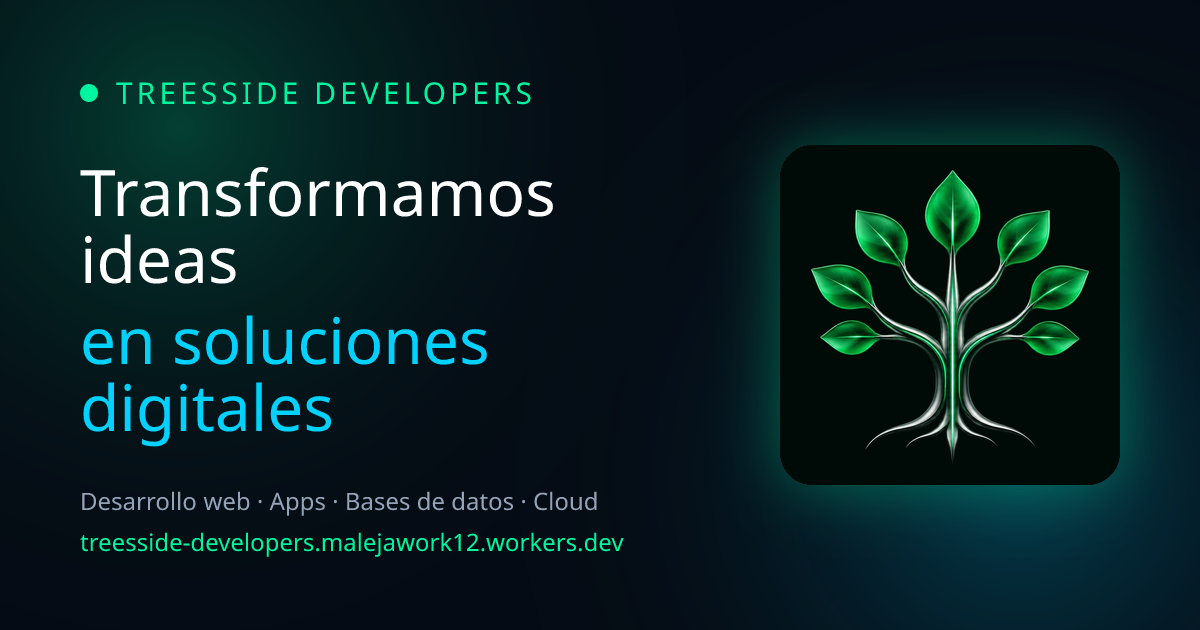
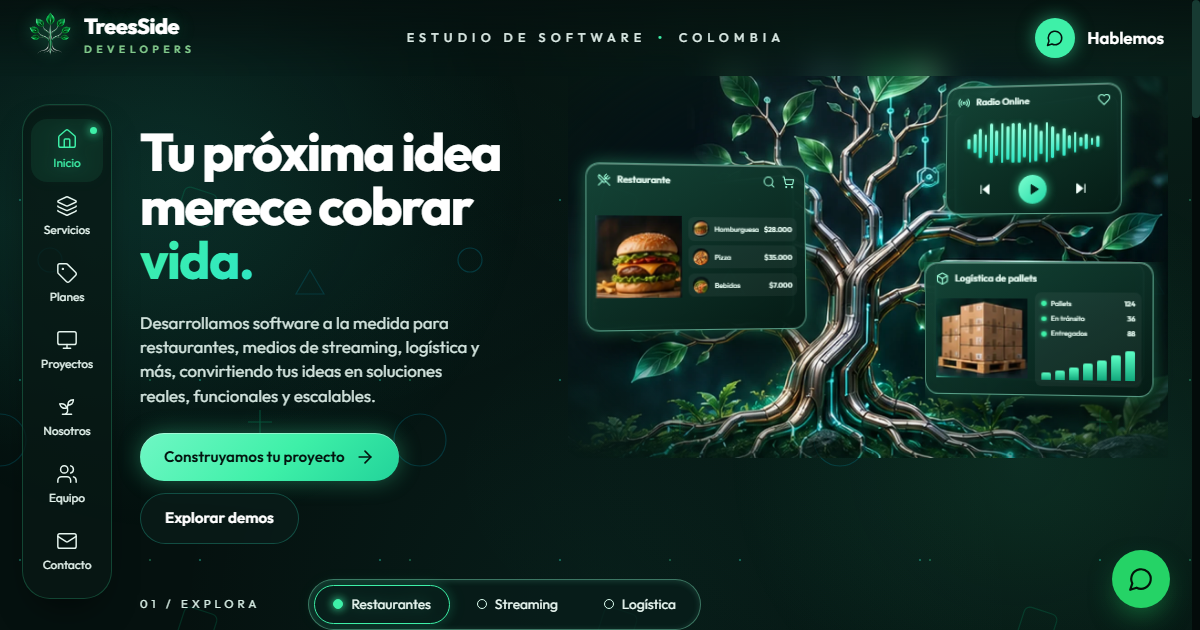
feat(site): refresh share preview, home order and team profiles

diff --git a/src/components/TeamGallery.tsx b/src/components/TeamGallery.tsx
@@ -69,7 +69,7 @@ export function TeamGallery() {
         <div className={styles.stage} data-team-stage="" data-focused={selected !== null}>
         <Image src="/images/mockup/team-tree.webp" alt="" aria-hidden="true" data-team-tree="" width={908} height={780} priority className={styles.tree} />
         <div className={styles.heading}>
-          <h1 id="team-title">Cuatro mentes.<br />Un mismo<br /><span className="text-gradient">propósito.</span></h1>
+          <h1 id="team-title">Distintas mentes.<br />Un mismo<br /><span className="text-gradient">propósito.</span></h1>
           <h2 className={styles.discipline}>Desarrollo de software</h2>
           <p className={styles.summary}>Un equipo que combina ideas, perspectivas y experiencia para crear soluciones reales, funcionales y escalables.</p>
           <Link href="/proyectos" className="btn btn-primary">Ver proyectos <ArrowRight size={20} aria-hidden="true" /></Link>

diff --git a/src/data/team.ts b/src/data/team.ts
@@ -82,11 +82,12 @@ export const TEAM_MEMBERS: TeamMember[] = [
   },
   {
     name: 'María Alejandra Ortiz Páez', photo: '/images/team/maria-alejandra-ortiz.webp',
-    role: 'Desarrolladora de Software Junior',
+    role: 'Desarrolladora de Software',
     description: 'Desarrollo web, móvil y videojuegos con una visión de seguridad, respaldada por experiencia práctica en ciberseguridad.',
     skills: ['React', 'NestJS', 'Laravel', 'Flutter', 'Unity / C#', 'PostgreSQL'],
     portfolio: 'https://portafolio-bay-tau.vercel.app/',
     contributions: [
+      'Desarrollo de gran parte del sitio web de TreesSide Developers.',
       'Desarrollo de proyectos web con React, NestJS y Laravel, y aplicaciones móviles con Flutter.',
       'Creación de videojuegos con Unity y C#.',
       'Experiencia práctica en monitoreo de alertas de seguridad, documentación y automatización de reportes.',

diff --git a/src/app/page.tsx b/src/app/page.tsx
@@ -14,8 +14,8 @@ export default function HomePage() {
   return (
     <SitePage offsetHeader={false} footer={<HomeClosing />}>
       <Hero />
-      <HomeDemos />
       <ProjectCarousel />
+      <HomeDemos />
     </SitePage>
   );
 }

diff --git a/README.md b/README.md
@@ -122,7 +122,7 @@ Los correos y destinos de contacto existentes se mantienen (por ejemplo `correo@
 
 - **Dominio público:** `SITE_URL` en `src/data/content.ts` (hoy `https://treesside-developers.malejawork12.workers.dev`) es la única fuente del dominio. De ahí salen `metadataBase`, los enlaces canónicos, `og:url`, `og:image`, `twitter:image`, el JSON-LD de la organización, `sitemap.xml` y `robots.txt`. Si se cambia de dominio, se edita solo esa constante.
 - **Metadatos por página:** cada ruta usa `pageMetadata()` de `src/lib/metadata.ts`, que define título, descripción, canónico, Open Graph (`es_CO`) y tarjeta de X con la misma imagen. Las páginas 404 no publican canónico.
-- **Imagen al compartir:** `public/images/treesside-share.png` es un PNG fijo de 1200×630 con el logo `public/images/treesside-logo.jpg`, el lema y el dominio. Se publica como cualquier otro archivo estático en `https://treesside-developers.malejawork12.workers.dev/images/treesside-share.png`; Cloudflare no lo genera al recibir cada visita. `SHARE_IMAGE` en `src/lib/metadata.ts` lo declara (`image/png`, 1200×630 y texto alternativo) para todas las páginas y para la tarjeta de X. Si cambian el logo o el lema, se reemplaza ese PNG por uno nuevo de igual tamaño.
+- **Imagen al compartir:** `public/images/treesside-share.png` es una captura real del inicio en PNG de 1200×630, con el logo, el titular y la ilustración principal. Se publica como cualquier otro archivo estático en `https://treesside-developers.malejawork12.workers.dev/images/treesside-share.png`; Cloudflare no lo genera al recibir cada visita. `SHARE_IMAGE` en `src/lib/metadata.ts` lo declara (`image/png`, 1200×630 y texto alternativo) para todas las páginas y para la tarjeta de X. Si cambia el inicio, se actualiza la captura con las mismas dimensiones.
 - **Publicación:** los cambios solo aparecen al volver a desplegar. Tras publicar, conviene comprobar que la URL pública de la imagen responde 200 con `image/png` y probar a compartir el enlace en WhatsApp. WhatsApp, Facebook, LinkedIn y X guardan en caché la vista previa de un enlace; para refrescarla se puede usar el [Sharing Debugger de Facebook](https://developers.facebook.com/tools/debug/) o el [Post Inspector de LinkedIn](https://www.linkedin.com/post-inspector/), o compartir la URL con un parámetro nuevo (por ejemplo `?v=2`).
 
 El retrato de Jorge conserva la proporción vertical original (288×384 en la copia optimizada) y se muestra con `photoFit: 'contain'` en `src/data/team.ts`, sin el recorte cuadrado que generaba zoom. Las demás fotos mantienen su encuadre.
